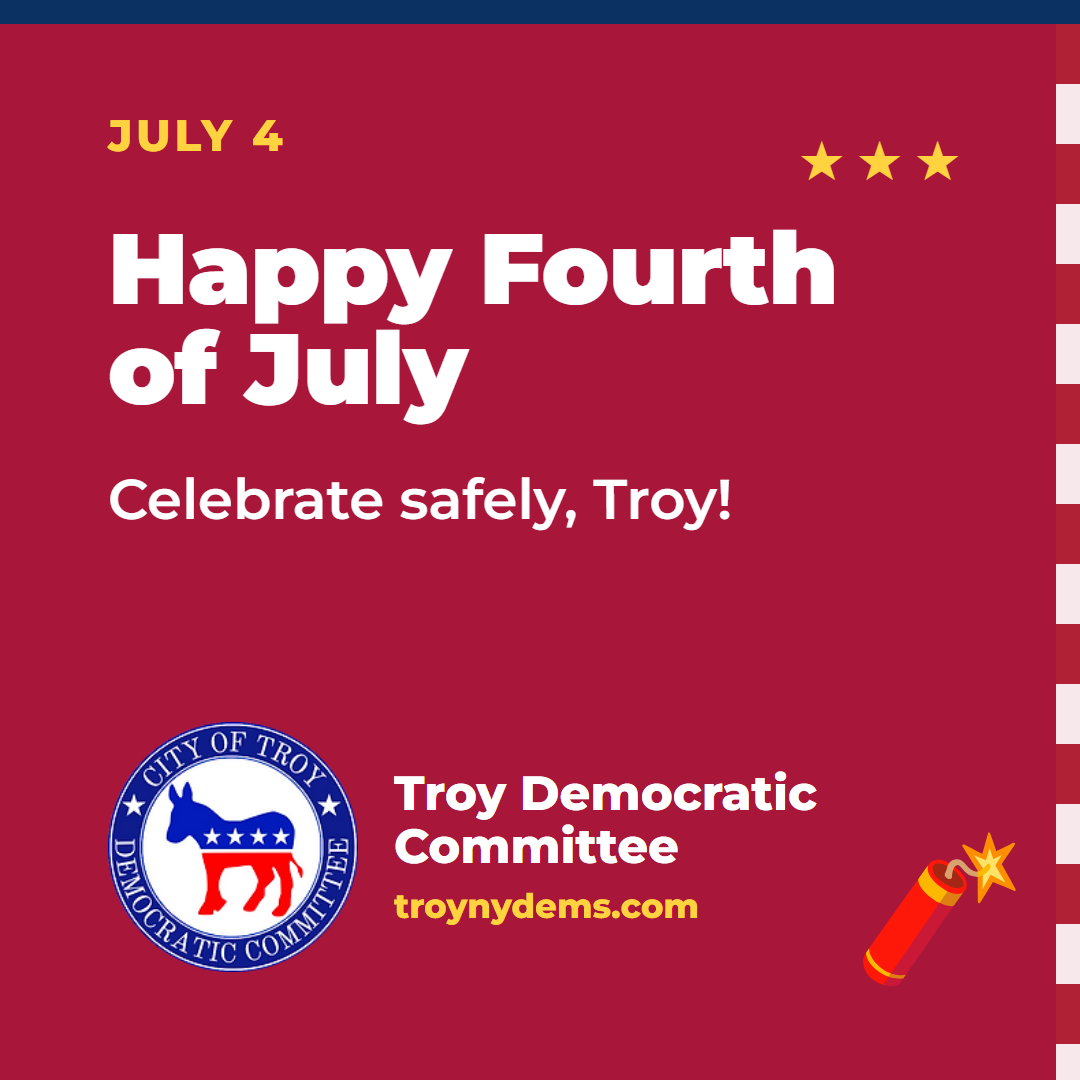
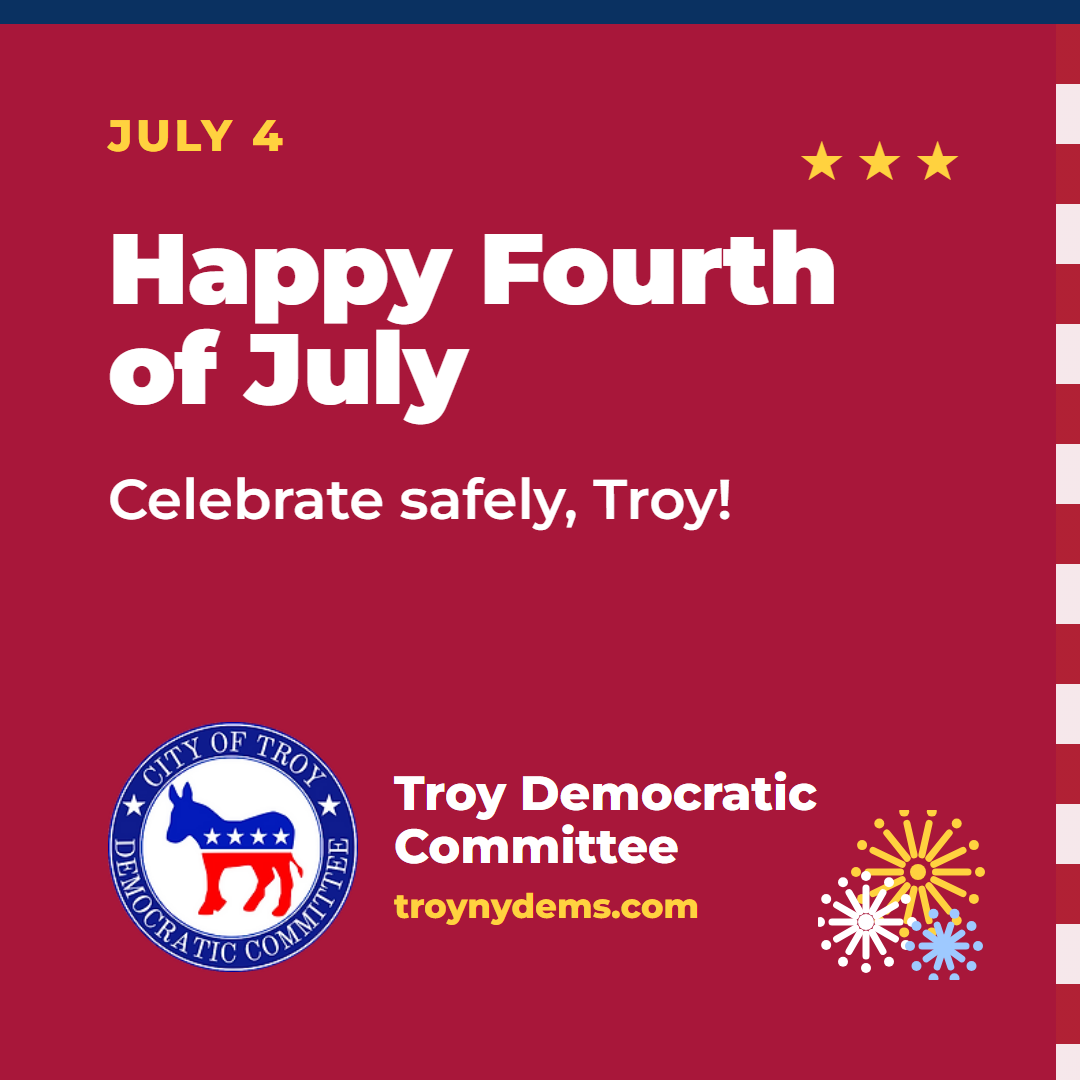
Swap July 4 firecracker for custom fireworks bursts
The Independence Day icon is now an inline SVG of gold, white, and
light blue fireworks, nudged left to clear the flag stripe. The README
notes that an icon can be SVG markup.

Changed region(s): [[0.7639, 0.7333, 0.9472, 0.9167]]

diff --git a/holiday-posts/README.md b/holiday-posts/README.md
@@ -11,7 +11,7 @@ python holiday-posts/render.py              # all graphics
 python holiday-posts/render.py flag-day     # just one
 ```
 
-Each entry in `posts.json` takes these fields: `kicker` (the gold line at the top), `headline`, `sub`, `size` (headline px: use 140 for short headlines and 120 for long ones), `flag` (true adds the stripes and stars), and `icon` (an emoji drawn in the bottom-right corner as a nod to the holiday, e.g. 🦃 for Thanksgiving). Each post also sets its holiday's colors with `bg` (background), `ink` (main text), `accent` (kicker, stars, and URL), and `bar` (the top bar, which can be a CSS gradient such as the Pride rainbow). Leave them out to get committee navy and gold. Add `"striped": true` to turn a multi-color `bar` into full-bleed stripes behind a rounded panel in the `bg` color A `pattern` (any CSS background) replaces those stripes, as with the gift-wrap stripes on Happy Holidays. Striped posts: Happy Holidays, Black History Month, Women's History Month, Pride, Juneteenth, and Hispanic Heritage Month). Keep the accent bright enough to read on the background. Check every PNG after you render it.
+Each entry in `posts.json` takes these fields: `kicker` (the gold line at the top), `headline`, `sub`, `size` (headline px: use 140 for short headlines and 120 for long ones), `flag` (true adds the stripes and stars), and `icon` (an emoji drawn in the bottom-right corner as a nod to the holiday, e.g. 🦃 for Thanksgiving; it can also be inline SVG markup, as with the fireworks on Independence Day). Each post also sets its holiday's colors with `bg` (background), `ink` (main text), `accent` (kicker, stars, and URL), and `bar` (the top bar, which can be a CSS gradient such as the Pride rainbow). Leave them out to get committee navy and gold. Add `"striped": true` to turn a multi-color `bar` into full-bleed stripes behind a rounded panel in the `bg` color A `pattern` (any CSS background) replaces those stripes, as with the gift-wrap stripes on Happy Holidays. Striped posts: Happy Holidays, Black History Month, Women's History Month, Pride, Juneteenth, and Hispanic Heritage Month). Keep the accent bright enough to read on the background. Check every PNG after you render it.
 
 **Alt text pattern:** *Graphic reading "[kicker]. [headline]. [sub]." Troy Democratic Committee logo and troynydems.com.*
 
